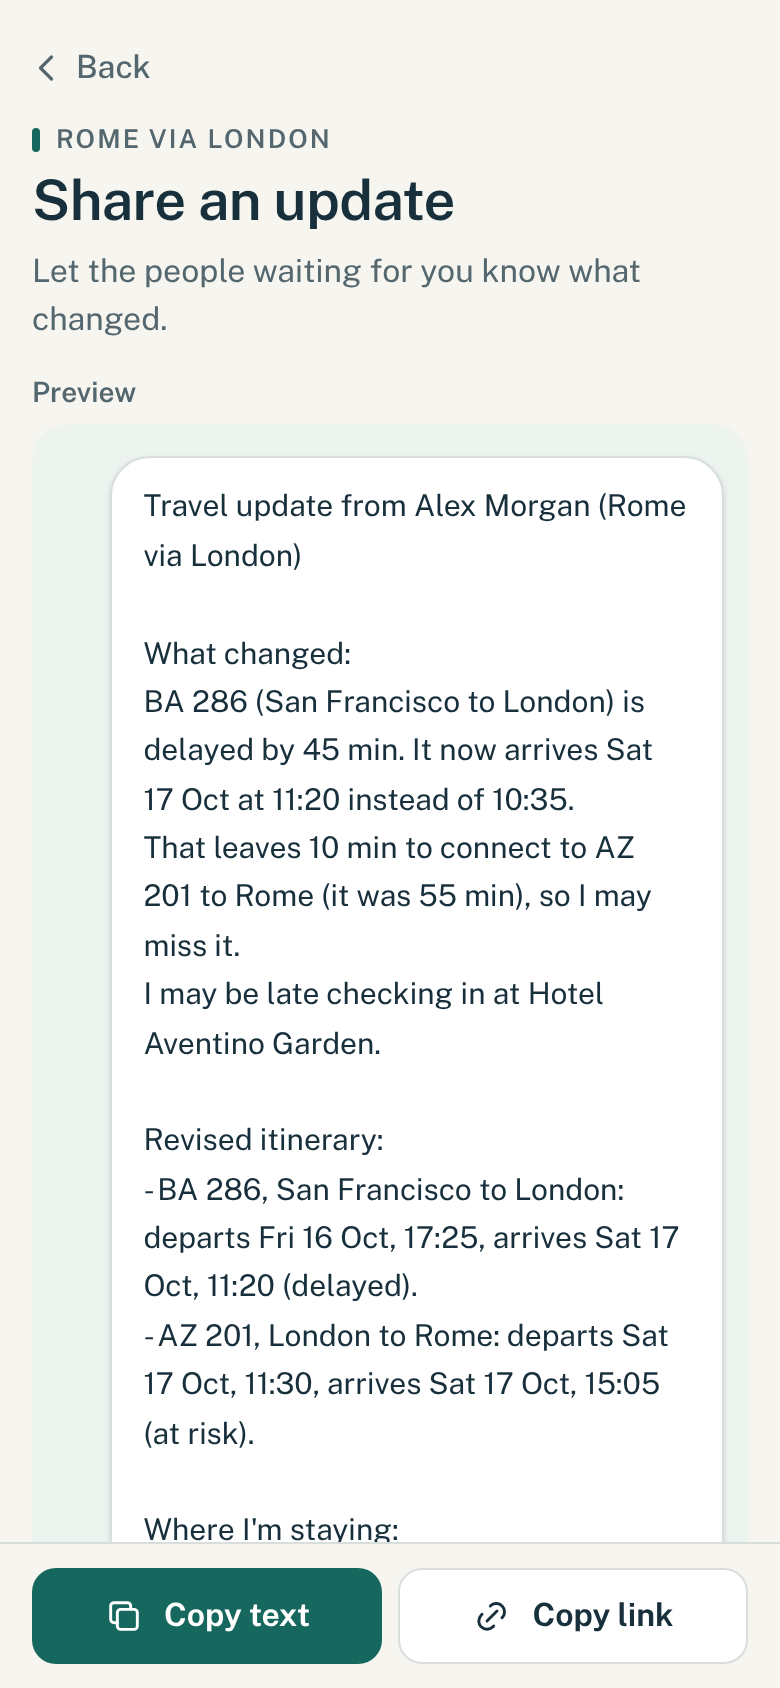
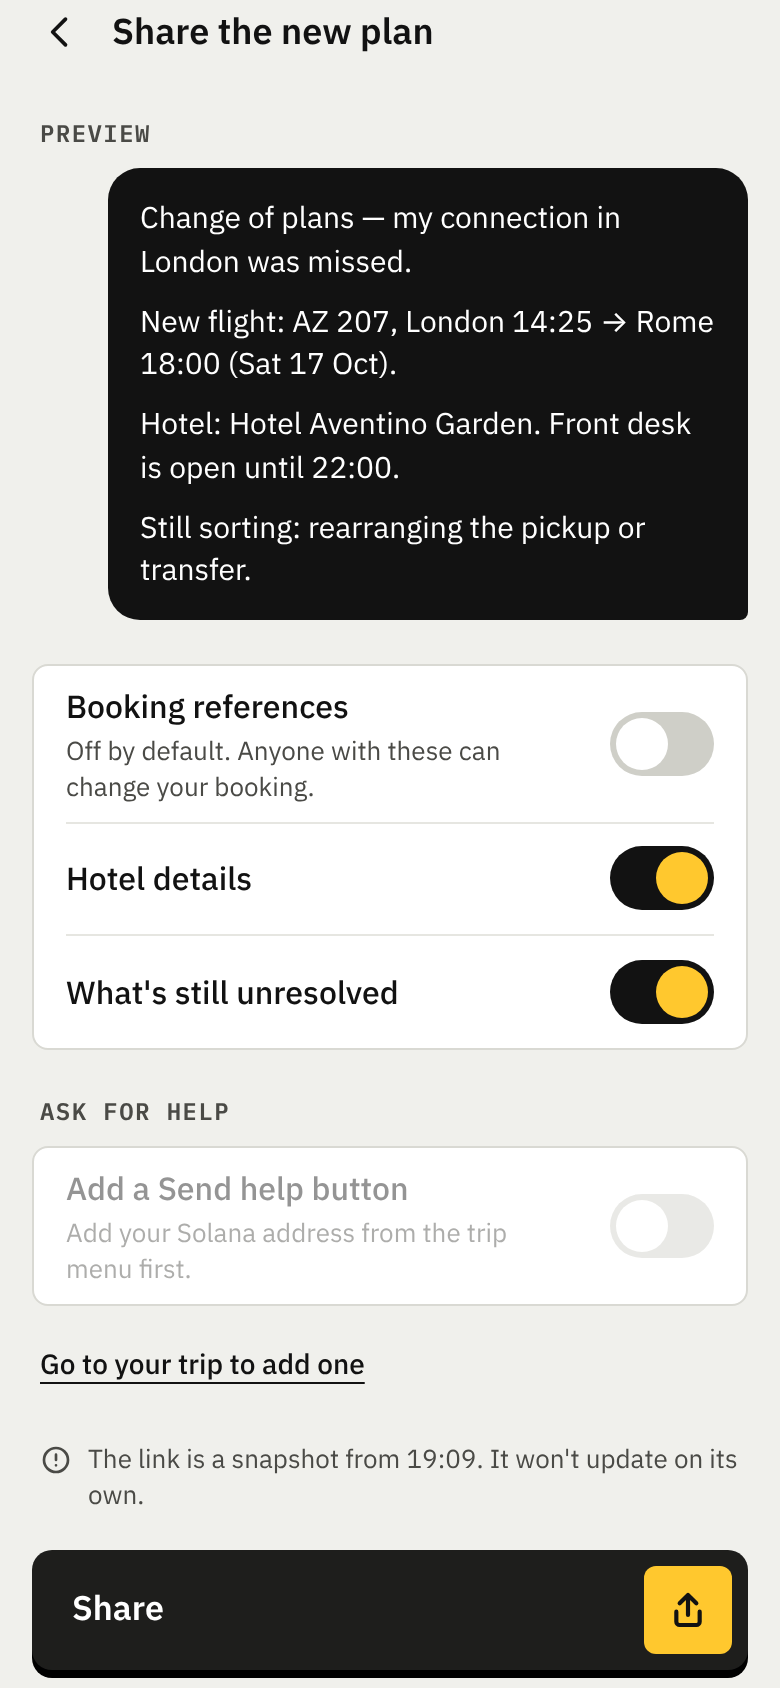
Update docs for the automatic flow: script fixes, optional Send help step, fresh screenshots, QA report
- demo-script: correct on-track headline and 'Still sorting' line; Trigger the change now;
  optional Send help step with setup
- pitch: Solana confirmed on a phone, one sentence in the demo, Why Solana answer
- README: screenshots of the current design
- qa: rewritten for the current app
- remove the shared-message patch: fixed upstream with shareCopy

Claude-Session: https://claude.ai/code/session_01PivuhWo5ePYLvs2Kh8ZPSG

diff --git a/docs/qa.md b/docs/qa.md
@@ -1,106 +1,88 @@
 # QA report
 
-Tested on Saturday 10 October, on the latest `main` (after the screens, share page and
-Solana UI were merged).
+Tested on Saturday 10 October, on the latest `main` (the "automatic flow": the app watches a
+simulated flight feed and the change arrives by itself).
 
-**How I tested:** I built the app (`pnpm build`, `pnpm start`) and walked the whole demo
-from `docs/demo-script.md` as a first-time user: load the sample trip, report a 45-minute
-delay, read the result, tick two tasks, open the share screen, copy the link, open the link
-as the recipient. I used a browser set to a phone size (390 x 844 pixels, touch screen).
+**How I tested:** I built the app (`pnpm build`, `pnpm start`) and walked the whole demo from
+`docs/demo-script.md` as a first-time user, in a browser set to a phone size (390 x 844
+pixels, touch screen):
 
-**What I did not test:** a real phone, iPhone Safari, Android Chrome, dark mode, the
-Solana "Send help" flow with a wallet, or the live internet (everything ran on my machine).
-Those need a person with a phone.
+1. Tap **Try the sample trip**, wait for the change (it arrived about 7 seconds later).
+2. Read the new plan, tick two tasks, check the counter.
+3. Tap **Share the new plan**, check the preview, tap **Copy link**, open the link as the
+   recipient.
+4. Menu: **Trigger the change now**, **Restart the demo trip**, **Clear this trip**.
+5. The Solana path: save a wallet address, switch on **Add a Send help button**, enter an
+   amount, copy the link, open the recipient page.
+6. **Listen to summary**.
 
-**The demo path works from start to finish.** The numbers on screen are the right ones: arrival
-11:20 (was 10:35), connection 10 minutes (was 55) with an amber **Tight** badge, 7 tasks, 2 of
-7 done after two ticks, and a link that opens a read-only page. No errors showed up in the
-browser.
+I also ran the unit tests: 119 pass.
 
-Problems are listed most serious first. I have not changed anyone else's files. The owner is
-the person who should fix each one.
+**Result: the demo path works from start to finish.** The wording on screen matches the script.
+No errors showed in the browser console.
+
+**What I did not test:** a real phone, iPhone Safari, Android Chrome, dark mode, opening a real
+wallet from **Send help**, or hearing **Listen to summary** out loud (I confirmed the app hands
+the right sentences to the browser's speech, not the sound itself). Those need a person with a
+phone. Sebastian has tested Send help on a phone.
 
 ---
 
-## 1. The shared message and the recipient page list the traveler's own to-dos
+## Problems, most serious first
 
-**Seriousness:** high. A judge will see this on the recipient page.
+None blocks the demo. All of these are small.
 
-- **What I did:** reported the 45-minute delay, ticked two tasks, tapped **Send an update**,
-  then opened the copied link as the recipient.
-- **What I expected:** a short list of things Alex still has to sort out that matter to the
-  people waiting.
-- **What happened:** the message ("Still to sort out") and the recipient page ("Still on
-  Alex's list") include lines meant for Alex only: **"Send an update to someone waiting for
-  you"** (which the person waiting reads, about themselves), **"Ask British Airways what
-  you're entitled to"**, and **"Keep receipts for extra costs"**.
-- **Owner:** Boris (`summary.ts`, `shareLink.ts`).
-- **Fix ready:** `docs/patches/shared-message-skip-personal-tasks.patch`. It keeps those
-  personal tasks out of the message and the link, and adds a test. I ran the full test suite
-  on it (85 tests pass) and lint and type checks are clean. To apply it, run this from the
-  project folder: `git apply docs/patches/shared-message-skip-personal-tasks.patch`
+### 1. The notification card covers the top of the screen for about 9 seconds
 
-## 2. A second rehearsal without a reset gives the wrong result
+- **What I did:** let the change arrive, then looked at the screen. Later, went straight to the
+  share screen.
+- **What I expected:** the headline readable as soon as the change lands.
+- **What happened:** the card sits over the top of whatever screen you are on. It hides the
+  start of the headline, **London connection missed. You're on the 14:25 instead.**, and, if
+  you go to the share screen within about 9 seconds, part of the message preview.
+- **What to do:** the script says to tap the card (or the small **X**) after you have said what
+  it says. Do that, then read the headline. Owner (optional): Will could shorten how long it
+  stays.
 
-**Seriousness:** medium. It is a trap when you rehearse, not a bug for a judge.
+### 2. About 7 seconds of nothing at the start
 
-- **What I did:** ran the demo, tapped **Back to trip**, then tapped **Report a change** and
-  **+45 min** again.
-- **What I expected:** a fresh 45-minute delay, **Tight**.
-- **What happened:** the form starts from the already delayed times (17:25 and 11:20), so
-  **+45 min** makes it 18:10 and 12:05, and the badge says **Likely missed**.
-- **Why it happens:** the app remembers the trip, and a new delay adds to the old one. That
-  is probably right for real trips.
-- **What to do:** before each run, scroll to the bottom of the home screen, tap **Delete trip
-  from this device** twice, then **Load sample trip**. This is now step 3 of "Before you walk
-  on" in the demo script.
-- **Owner (optional):** Will or Namish could put a clearer **Start over** button near the top
-  of the home screen, so there is less to scroll.
+- **What happened:** after **Try the sample trip** the screen shows the on-track trip for about 7
+  seconds before the change arrives.
+- **What to do:** the script has the opening lines to fill that gap. If a judge is waiting, use
+  menu > **Trigger the change now** to skip it.
 
-## 3. Tapping a Call button dials the made-up Rome numbers
+### 3. Call buttons still dial the made-up Rome numbers
 
-**Seriousness:** medium, only if someone taps it on stage.
+- **What happened:** the phone buttons are real `tel:` links. The UK number is in a reserved
+  fictional range and is safe. Italy has no such range, so the Rome numbers (`+39 06 5550
+  0142` and `0177`) could ring a real stranger.
+- **What to do:** point at the buttons, do not tap them. Tell me if you want the Rome numbers
+  replaced with something that cannot ring.
 
-- **What I did:** looked at the home screen and the checklist.
-- **What I expected:** call buttons for the hotel and airlines.
-- **What happened:** they are real `tel:` links. The UK number is in a reserved fictional range
-  and is safe. Italy has no such range, so the Rome numbers (`+39 06 5550 0142` and `0177`)
-  could ring a real stranger.
-- **What to do:** the demo script says to point at **Call** buttons, not tap them. Do the same
-  if a judge reaches for your phone: tell them the numbers are made up.
-- **Owner:** Sebastian, if you want the Rome numbers changed to something that cannot ring. I
-  would rather not guess a number that is safe, so tell me if you want that done.
+### 4. **Clear this trip** wipes the saved Solana address
 
-## 4. A 10-minute connection shows **Tight**, not **Likely missed**
+- **What happened:** the wallet address stays through **Restart the demo trip** but is lost on
+  **Clear this trip**.
+- **What to do:** the demo script covers it. If you want to show Send help, save the address
+  after clearing, then use **Restart the demo trip** as your first step.
 
-**Seriousness:** low. This is a decision, not a bug.
+### 5. Not verified by me
 
-- **What happened:** the connection card says **Tight** (amber) at 10 minutes. The app only
-  says **Likely missed** when the arrival is after the onward departure.
-- **What to do:** the pitch and demo script use "tight" and "at risk" and never "missed". A
-  judge might ask why 10 minutes is not red. The honest answer: it is possible but very
-  unlikely, and we do not want to claim more than we know.
-- **Owner:** Boris, if the team wants red below a certain number of minutes.
+- **Send help on a phone.** In the browser: the **Send help** link is a valid `solana:` payment
+  request for devnet USDC with the amount, the QR code appears, and **Copy address** is there. I
+  did not open a wallet.
+- **Listen to summary.** The sentences are right ("You missed your flight to Rome. You are now
+  on a new flight arriving at 6:00 PM. Nothing else on your trip is affected. First, check your
+  new booking for AZ 207."). It uses the phone's own voice, so volume and voice vary by phone.
+- **Dark mode.** There are **Light**, **Dark** and **Auto** options in the menu. Make sure the
+  phone you present on looks right, and stay on Light if it does not.
 
-## 5. Small look-and-feel details
+---
 
-**Seriousness:** low.
+## Fixed since my first pass
 
-- **The dash glued to the text.** In the share preview the list lines look like `-BA 286` with
-  no gap after the dash. (The text really has a space; the font's space is narrow.)
-- **"AZ 201" splits across two lines** in the preview (`AZ` at the end of one line, `201` at
-  the start of the next). A non-breaking space between the airline code and the number would
-  stop that.
-- **Owner:** Will (the look) or Boris (the text).
-
-## 6. Things I could not check
-
-- **Solana "Send help".** The toggle on the share screen reads **Add your Solana address on the
-  trip screen first** and stays off until an address is saved. I did not test saving an
-  address, sending, or opening a wallet. Until someone has done that on a phone, the pitch
-  says nothing about it.
-- **A real phone.** Please open the app on the phone you will present from, run the whole
-  demo script once, and tell me anything that feels slow, cut off, or hard to tap.
-- **Dark mode.** There are **Light**, **Dark** and **Auto** buttons at the bottom of the home
-  screen. Make sure the phone you present on looks right, and stays in light mode if it does
-  not.
+- The shared message and the recipient page no longer include the traveler's own to-dos (for
+  example "Keep receipts"). They show a short, third-person list instead.
+- The Copy buttons work on plain `http://` addresses, with a fallback.
+- The "second rehearsal stacks the delay" trap is gone: the change now plays from a fixed
+  script, and **Restart the demo trip** puts the trip back cleanly.

diff --git a/docs/pitch.md b/docs/pitch.md
@@ -61,6 +61,9 @@ a change" screen: the change arrives on its own, about 6 seconds after the trip 
 > ready to send. Notice the two things Alex just did are already gone from it.
 >
 > *(copy link, open it)* They tap the link. No app. No account.
+>
+> *(Solana, if it works on the day)* And if Alex needs help with costs, the person waiting can
+> send it from the same link, on Solana's test network, so no real money moves.
 
 ### 4. Why it is more than a to-do list (about 30 seconds)
 
@@ -79,10 +82,10 @@ a change" screen: the change arrives on its own, about 6 seconds after the trip 
 
 ### 6. Hand-off (about 10 seconds)
 
-> We each built a different part. Namish led the code, Boris built the logic, and Will
-> designed the screens. Ask us anything, or let's look at the code.
+> We each built a different part. Namish led the code, Boris built the logic, Will designed
+> the screens, and I built the Solana help button. Ask us anything, or let's look at the code.
 
-*Sebastian's part (Solana) goes in only once it works on a phone. See "Tracks" below.*
+*Sebastian's part is the Solana "Send help" button. It has its own line in the demo, below.*
 
 ---
 
@@ -123,14 +126,12 @@ Say these things in your own words if a judge asks "why you?". Do not recite the
 
 | Track | Where it stands | What must be true before you mention it | Who to ask |
 | --- | --- | --- | --- |
-| **Solana** | The screens exist. The traveler adds a Solana address in the **Trip menu**; the share screen has an **Ask for help** option with an amount in USDC; the shared page shows a **Send help** button, a QR code and the address to copy. All on devnet, Solana's test network, with address validation and the transfer-request builder tested under `src/lib/solana/`. It has been checked in a browser at phone width, **not yet on a real phone with a wallet**. | Someone has opened a shared link on a phone, tapped **Send help**, and seen it open in a wallet set to devnet (or scanned the QR from a laptop). | Sebastian |
+| **Solana** | Built and tested. The traveler adds a Solana address in the **Trip menu**; the share screen has an **Add a Send help button** option with an amount in USDC; the shared page shows **Send help**, a QR code and the address to copy. All on devnet, Solana's test network, with address validation and the transfer-request builder tested under `src/lib/solana/`. Sebastian has tested it on a phone. | Say it only if it still works on the phone you present from. Run the optional step in `docs/demo-script.md` once before you go up. | Sebastian |
 | **ElevenLabs** | Dropped. There is no ElevenLabs code. The home screen does have a **Listen to summary** button, but it uses the phone's own built-in voice (browser speech), not ElevenLabs. | Do not claim ElevenLabs. If asked about the button, say it is the device's voice. | |
 
-If the Solana request has not been phone-tested with a real wallet by tomorrow morning, say
-nothing about Solana at the table. A judge who sees a broken promise scores the whole project down. Tell
-me when it is confirmed and I will add one sentence to this pitch and one step to the demo
-script. If you do show it, say it uses devnet, Solana's test network, so no real money
-moves.
+If the Solana step does not work on the day, on the phone you present from, say nothing about
+Solana at the table. A judge who sees a broken promise scores the whole project down. If you
+do show it, say it uses devnet, Solana's test network, so no real money moves.
 
 ---
 
@@ -173,6 +174,12 @@ Their trip data could feed ours.
 *Say only what is true: do not say TripIt "can't" do something. We checked its public
 description (see sources below), not the app itself. If a judge pushes, say "as far as we
 know, it does not write the update for the people waiting".*
+
+**Why Solana? Is it real money?**
+Not today: it runs on Solana's test network, so no real money moves. We chose Solana because
+a small payment from someone in another country can arrive in seconds and cost almost nothing.
+The app only builds a payment request. The person's own wallet approves it, so we never hold
+keys or sign anything.
 
 **Isn't this just a to-do list?**
 A to-do list holds what you type. Here the list is written from your trip: it names your
@@ -219,12 +226,12 @@ built the logic.)*
 | Namish | Head coder | How it is built, the store, the share link |
 | Boris | Code and logic | How the connection time, checklist and message are worked out |
 | Will | Frontend design | The screens, the look, phone layout |
-| Sebastian | Presenter, Solana | The story, plus the Solana request once it has been tried on a phone with a real wallet |
+| Sebastian | Presenter, Solana | The story, plus the Solana help button |
 
 ## Open items
 
-1. Whether the Solana request works on a phone with a real wallet. Tell me and I will add one
-   sentence to this pitch and one step to the demo script.
+1. Run the optional Send help step in `docs/demo-script.md` once on the phone you will present
+   from, the morning of the demo.
 2. Where the TripIt answer came from: public descriptions of TripIt, not the app itself.
    Sources: [TripIt Pro review](https://www.iphonejd.com/?p=1094),
    [TechCrunch on the launch of TripIt Pro](https://techcrunch.com/2009/06/23/tripit-goes-pro-launches-premium-flight-monitoring-and-alerts),

diff --git a/docs/demo-script.md b/docs/demo-script.md
@@ -39,6 +39,9 @@ There is no "report a change" screen. A change arrives on its own:
 
 It plays once per trip. Once the trip has a change, nothing more fires until you restart it.
 
+**Do not want to wait the 6 seconds?** Menu > **Trigger the change now** makes it arrive at
+once. Handy when rehearsing, or if a judge is hovering and time is short.
+
 ## Before you walk on (2 minutes, do this every time)
 
 1. Charge the phone. Turn off notifications and Do Not Disturb on, so nothing else buzzes.
@@ -64,8 +67,8 @@ It plays once per trip. Once the trip has a change, nothing more fires until you
 
 **TAP** **Try the sample trip** on the home screen.
 
-You land on **Your trip is on track. Nothing to do right now.** with **All flights on time**
-and a pulsing **Watching live** in the bar at the top.
+You land on **Flights are on time, but 55 min in London is tight. We're watching it.** The bar
+at the top reads **On time · Tight connection**, next to a pulsing **Watching live**.
 
 **POINT** at the two flights, and at the line between them: **55 min in London**, marked
 tight.
@@ -155,13 +158,10 @@ You are on **Share the new plan**.
 > "Someone is waiting in Rome. Alex is not going to type all this with tired thumbs in a
 > departure lounge. The app writes it, in plain words."
 
-**POINT** at the **Still sorting:** line. It lists four things. The two ticked items are
-**not** there.
-
-*Do not read this list out line by line. Until the fix in
-`docs/patches/shared-message-skip-personal-tasks.patch` is merged, it also includes personal
-items such as "Send an update to someone waiting for you" and "Keep receipts for extra costs".
-Only point at the two that are missing.*
+**POINT** at the **Still sorting:** line. After the two ticks it lists just one thing:
+*"rearranging the pickup or transfer"*. The two ticked items are **not** there, and neither are
+Alex's private to-dos (receipts, "what you're entitled to"). The message only mentions what
+matters to the person waiting.
 
 **SAY**
 > "And look. The two things Alex already did are gone from the message. The trip drives the
@@ -197,6 +197,33 @@ anything, it reads:
 (The "first" thing is the first task not yet ticked, so after the two ticks in step 4 it names
 the third task instead.) Tap again to stop it. The voice comes from the device, not a
 service, so it works offline.
+
+---
+
+## Optional: Send help (20 seconds)
+
+Only if you have tested Send help on your phone (you said you did) and you have a quiet moment.
+
+**Set it up beforehand, once.** Menu > **Solana address (optional)**, paste a wallet address,
+tap **Save address**. It is kept through **Restart the demo trip**, but **Clear this trip**
+wipes it. So: load the sample trip, save the address, then use **Restart the demo trip** as
+your step 1 instead of **Try the sample trip**.
+
+**On the share screen (step 5):** switch on **Add a Send help button**, type an amount such as
+**50** (the screen says it is USDC), then **Copy link** as usual.
+
+**On the recipient page,** scroll to **Help Alex with costs**. It says **Alex is asking for 50
+USDC** and, in a yellow box, **Demo on Solana's test network (devnet). No real money moves.**
+Point at **Send help** (it opens the person's Solana wallet app to approve the payment), the
+QR code (for a wallet on another device) and **Copy address**.
+
+**SAY**
+> "And if Alex needs help with costs, the person waiting can send it from the same link. It
+> opens their own wallet to approve. Today it runs on Solana's test network, so no real money
+> moves. We never hold keys or sign anything."
+
+Do **not** tap **Send help** on stage unless a wallet app set to devnet is installed on that
+phone. Otherwise the phone may show an "open with" prompt.
 
 ---
 
@@ -254,6 +281,7 @@ Then, in this order:
 | What you see | What to do |
 | --- | --- |
 | The trip already shows a change from the last run | Menu > **Restart the demo trip**. It goes back on time and the change arrives again in about 6 seconds. |
+| You do not want to wait for the change | Menu > **Trigger the change now**. |
 | You see no change after about 10 seconds | You are probably on the shared `/s` page, which never changes a trip, or the trip already has a change. Go to the home screen, then menu > **Restart the demo trip**. |
 | You missed the notification card | It hides itself after about 9 seconds. The home screen already shows the change. Carry on from step 3. |
 | Copy link does nothing | Use **Copy text** instead, or read the first two lines aloud and move on. |

diff --git a/README.md b/README.md
@@ -13,11 +13,12 @@ itself.
 
 ## What it looks like
 
-The three screens of the demo, on a phone: the trip, what a 45-minute delay puts at risk, and the update ready to send.
+The demo on a phone: the trip is on track, the airline changes a flight, the plan rebuilds
+itself, and the update is ready to send to the person waiting.
 
-| The trip | What is at risk | The update |
-| --- | --- | --- |
-| <img src="docs/screenshots/1-trip.png" width="240" alt="The trip screen: two flights, a hotel and contacts"> | <img src="docs/screenshots/2-at-risk.png" width="240" alt="Flight delayed: the London connection drops from 55 minutes to 10 and is marked Tight"> | <img src="docs/screenshots/3-share.png" width="240" alt="The share screen with a preview of the message and a Copy link button"> |
+| On track | New plan | Share it | What they see |
+| --- | --- | --- | --- |
+| <img src="docs/screenshots/1-on-track.png" width="190" alt="The trip is on time, with a tight 55-minute connection in London flagged"> | <img src="docs/screenshots/2-new-plan.png" width="190" alt="London connection missed: rebooked on AZ 207, with a checklist of what to do"> | <img src="docs/screenshots/3-share.png" width="190" alt="The share screen with a preview of the message and a Copy link button"> | <img src="docs/screenshots/4-recipient.png" width="190" alt="The read-only page the recipient opens: Alex now lands in Rome at 18:00"> |
 
 ## Run it
 
@@ -85,4 +86,4 @@ Four people in a 24-hour hackathon.
 | Namish | Head coder |
 | Boris | Code and logic: the connection, checklist and message |
 | Will Kim | Frontend design: the screens and the look |
-| Sebastian | Presenter: the pitch and the demo |
+| Sebastian | Presenter: the pitch and the demo, and the Solana "Send help" button |
